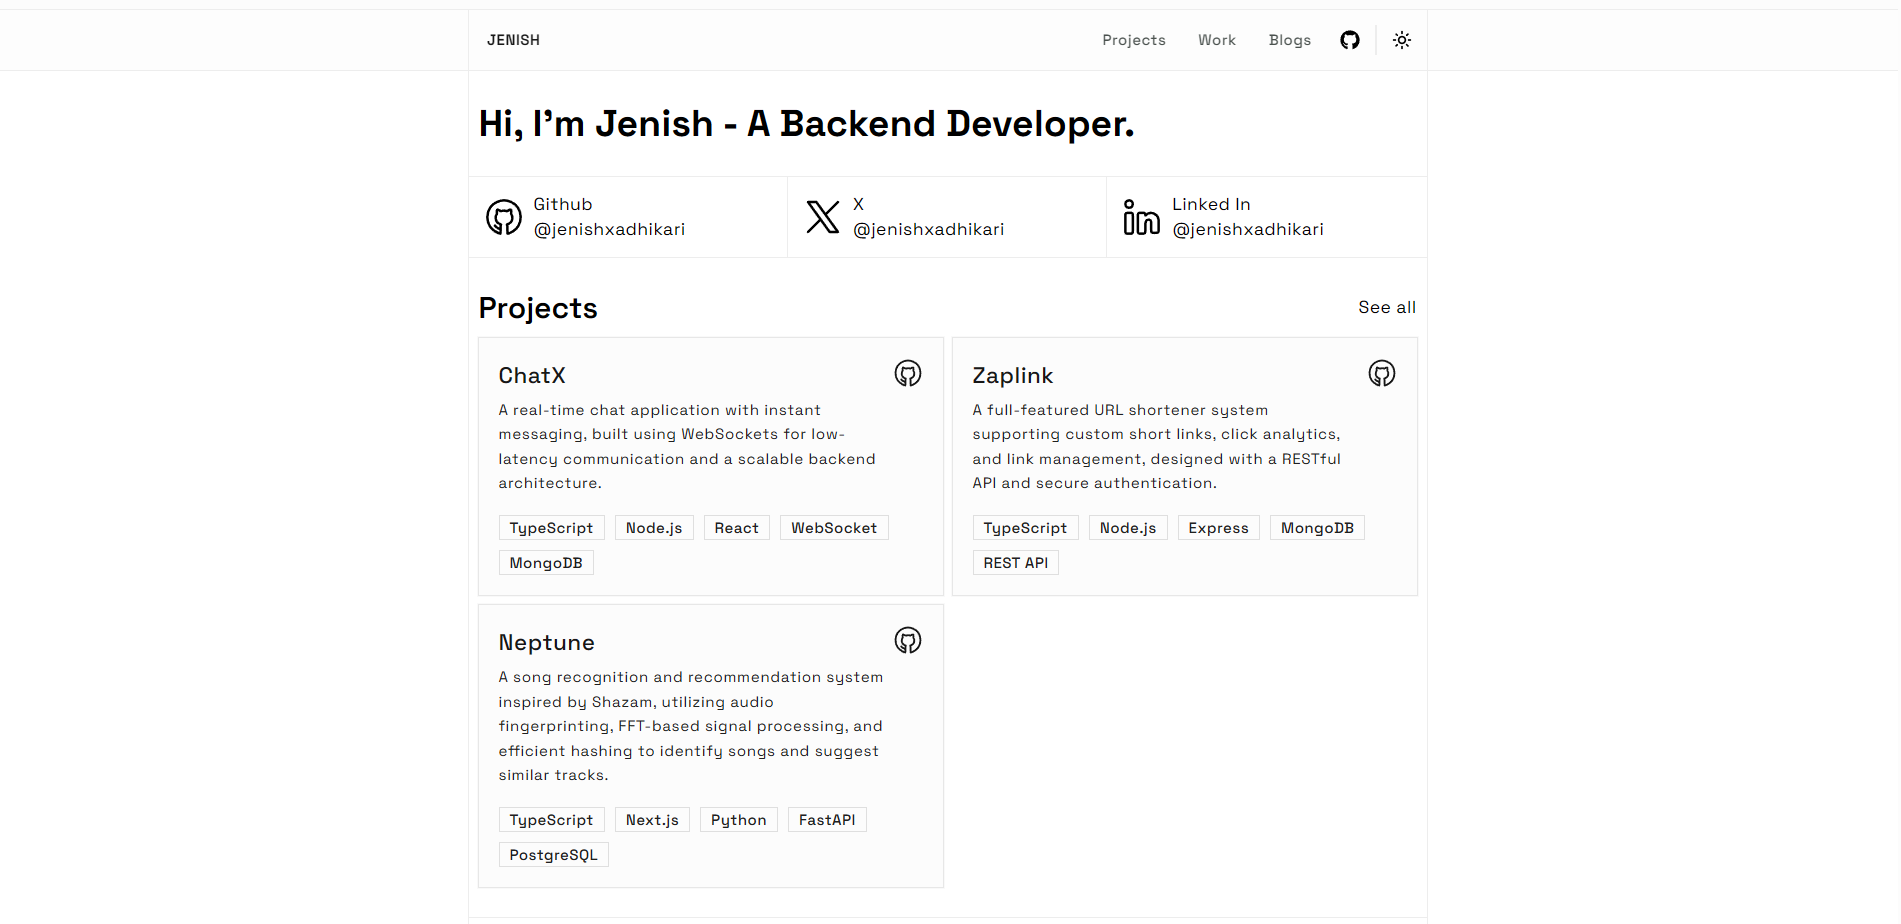
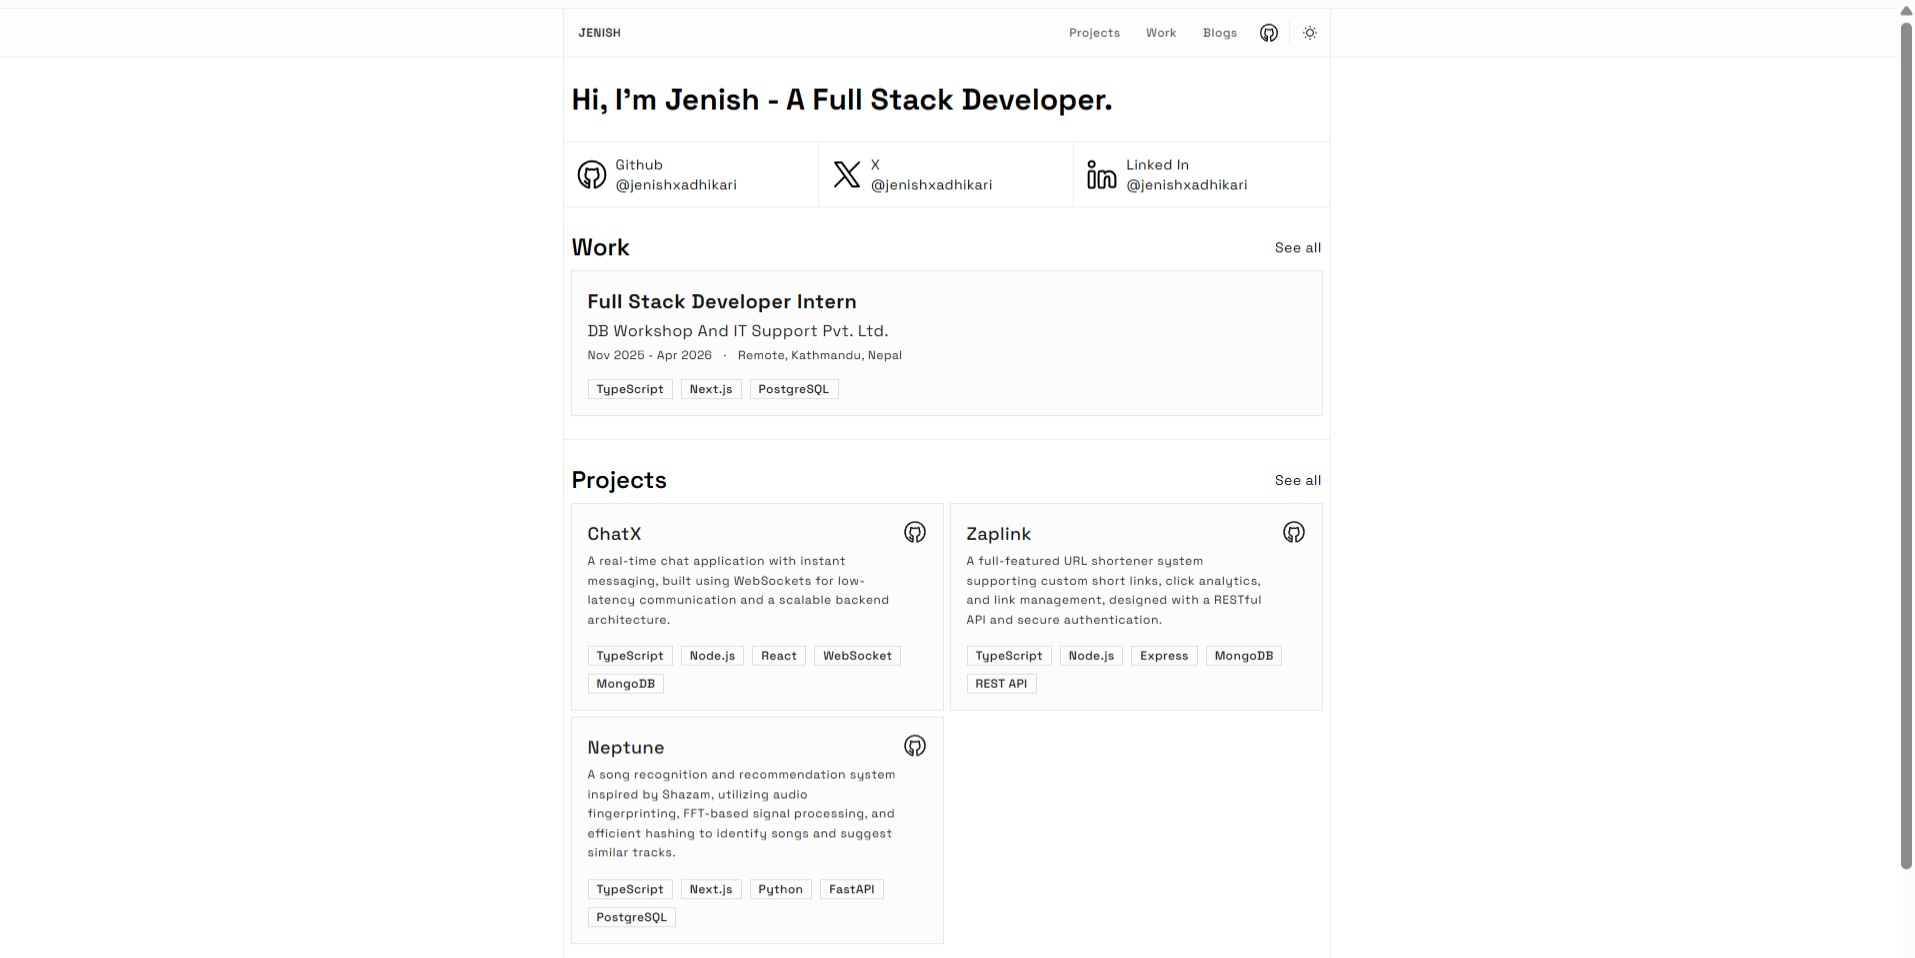
fix: update og image and site title

diff --git a/src/config/site.ts b/src/config/site.ts
@@ -1,5 +1,3 @@
-import { title } from 'process'
-
 import { Github01Icon, Linkedin02Icon, NewTwitterIcon } from '@hugeicons/core-free-icons'
 
 import { Blog, NavItem, Project, Social } from '@/types'
@@ -8,11 +6,11 @@ export const GITHUB_USERNAME = 'jenishxadhikari'
 
 export const SITE_INFO = {
   name: 'Jenish Adhikari',
-  jobTitle: 'Backend Developer',
+  jobTitle: 'Full Stack Developer',
   url: process.env.APP_URL || 'https://www.jenish-adhikari.com.np',
   ogImage: '/og-image.png',
-  description: 'Backend developer building stuff.',
-  keywords: ['portfolio', 'backend', 'developer']
+  description: 'Full stack developer building stuff.',
+  keywords: ['portfolio', 'full-stack', 'developer']
 }
 
 export const MAIN_NAV: NavItem[] = [

diff --git a/src/features/home/components/introduction.tsx b/src/features/home/components/introduction.tsx
@@ -5,7 +5,7 @@ export function Introduction() {
     <section>
       <MaxWidthWrapper className="border-accent border-x border-b px-2">
         <h1 className="py-6 text-3xl font-bold tracking-tight">
-          Hi, I&apos;m Jenish - A Backend Developer.
+          Hi, I&apos;m Jenish - A Full Stack Developer.
         </h1>
       </MaxWidthWrapper>
     </section>